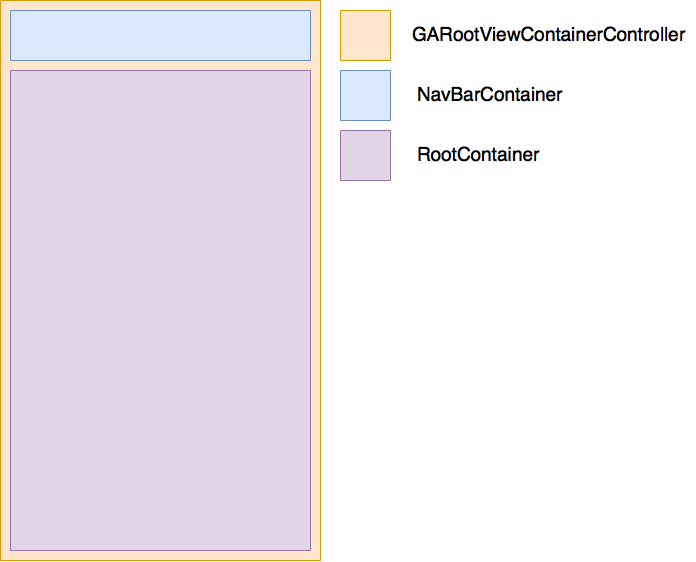
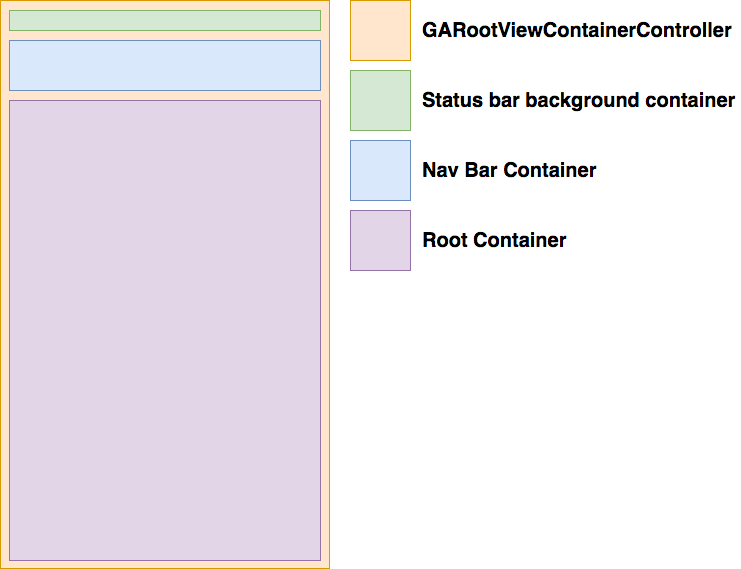
Feat:Add new documentation regarding navigation bar became part of status bar container

Changed region(s): [[0.0, 0.0, 0.9957, 1.0]]

diff --git a/book/ui-builder/ios/NavigationStructure.md b/book/ui-builder/ios/NavigationStructure.md
@@ -14,13 +14,23 @@ This document explains the general structure of the workflow that Zapp-iOS is us
 <a name="rootViewContainer" />
 #####GARootViewContainerController
 Zapp-iOS is using main component View Controller `GARootViewContainerController`.
-This Component is used to present `Navigation Bar` plugin and `Root` plugin
+This Component is used to present `Navigation Bar` plugin and `Root` plugin and `Status bar background` container.
 
 Structure example below:
 
 ![RootViewContainerStructure.png](./Files/RootStructure.png)
 
 <a name="states" />
+
+
+Note: If in general setting of application version in zapp back end will be selected key `Use UI Builder Navigation Bar` = `true`.
+Navigation bar will take status bar container space and status bar container will be removed. In this case no need to configure status bar seperatly.
+
+In case if this key will be disabled, status bar container will be shown and navigation bar will use old logic, meaning status bar container and navigation barr need to configuered seperatly in the Zapp website.
+
+![RootViewContainerStructure.png](./Files/StatusBarChanges.png)
+
+
 ##### Availible states:
 
 ######Root State:

diff --git a/book/ui-builder/ios/NavigatioBarPlugins.md b/book/ui-builder/ios/NavigatioBarPlugins.md
@@ -33,6 +33,12 @@ The navigation bar can be customized in the UI Builder via the Navigation sectio
 
 The navigation bar plugin provides general features which will be implemented in any plugin of this type.
 
+######Status bar container part of the navigation bar
+Old logic of the status bar container was removed. Navigation bar takes part of status bar container, this approach will help to reduce customization of the status bar color.
+Such way navigation bar background or navigation bar background image will be part of status bar, that will give ability for organical customization.
+![StatusBarChanges.png](./Files/StatusBarChanges.png)
+
+
 ######Customization per screen
 The nagivation bar can be customized per screen. This gives the ability to use different settings for each screen as it relates to the customer’s needs. Behind the scenes, when the end-user selects a new screen, the application will send a notification to update the navigation bar title and navigation bar model.
 
